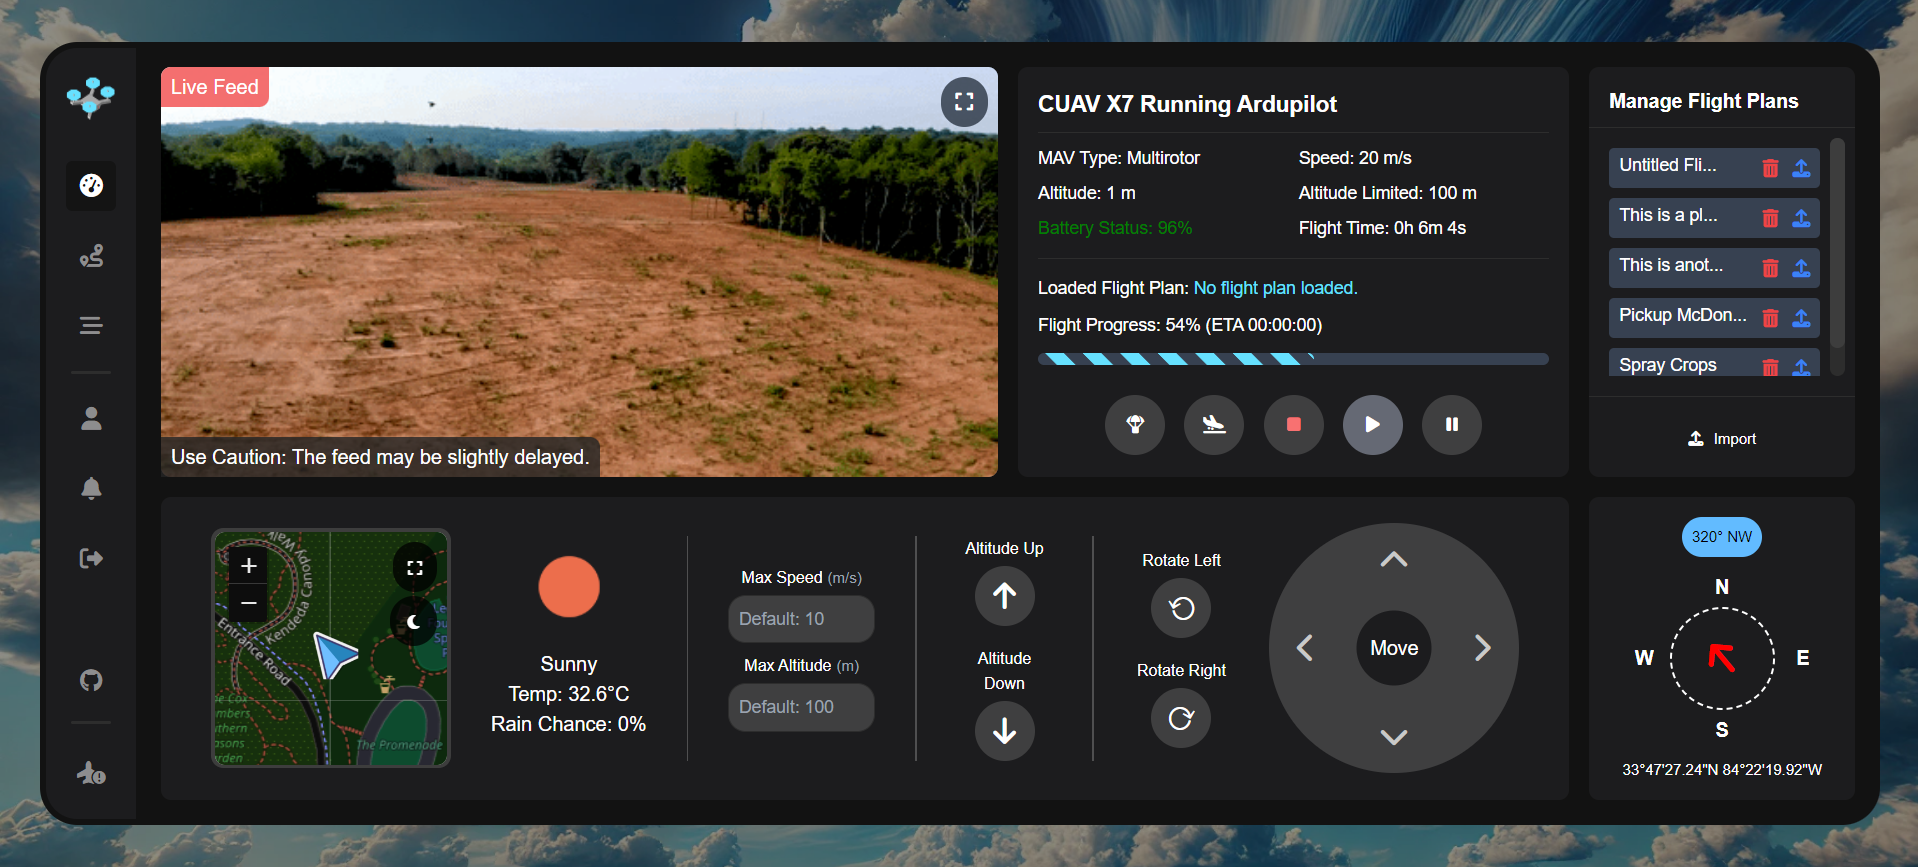
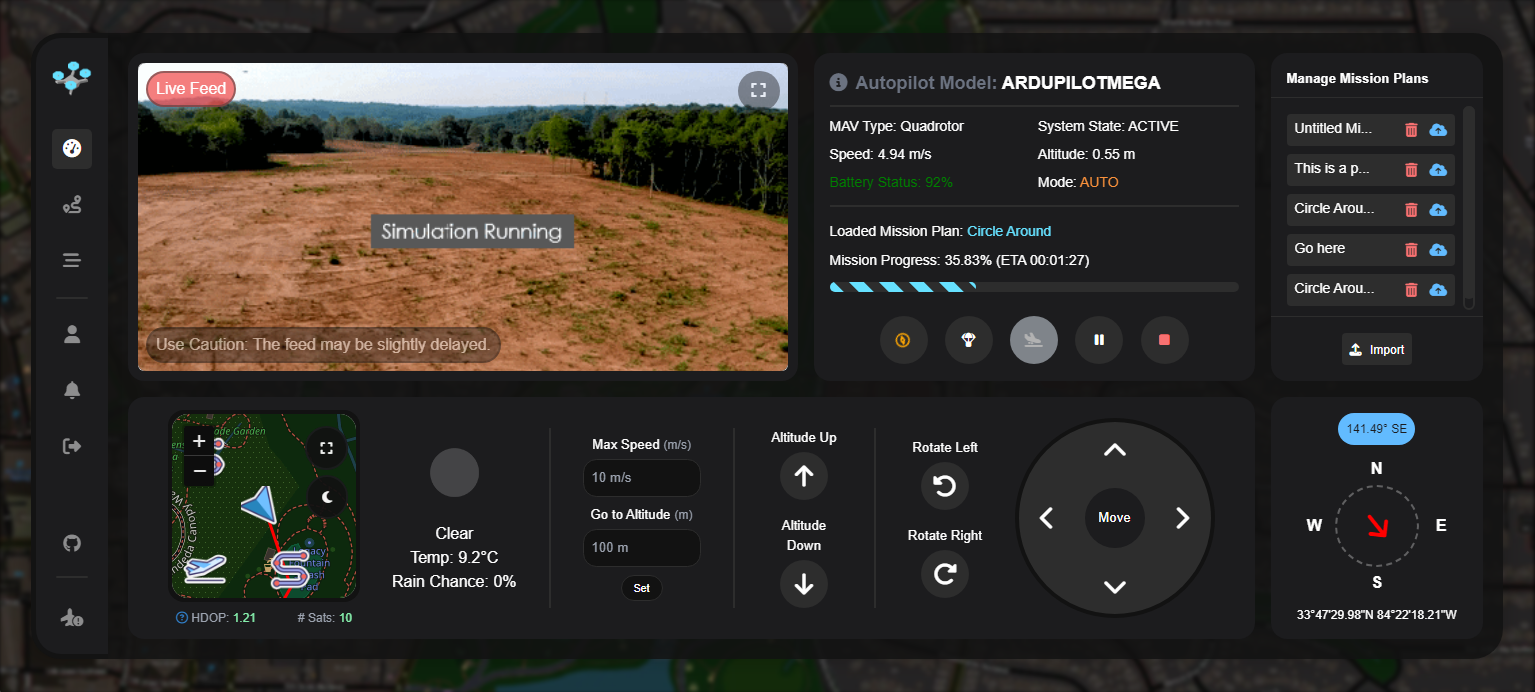
Production tweaks
- Updated workflow and README

diff --git a/src/frontend/src/components/LiveFeed.svelte b/src/frontend/src/components/LiveFeed.svelte
@@ -15,6 +15,7 @@
   $: tertiaryColor = $tertiaryColorStore;
   $: fontColor = darkMode ? '#ffffff' : '#000000';
 
+  let isProduction = false;
   let containerAspect = 16 / 9;
   let videoAspect = 16 / 9;
 
@@ -77,6 +78,15 @@
     fetchLiveFeed();
 
     window.addEventListener('resize', adjustVideoSize);
+
+    let response = fetch('/api/mavlink/heartbeat');
+    response.then((res) => {
+      if (res.status === 200) {
+        isProduction = res.headers.get('isProduction') === 'true';
+      }
+    });
+    let noSignal = document.getElementById('no-signal') as HTMLImageElement;
+    if (!isProduction) noSignal.src = 'simulation.gif';
   });
 </script>
 
@@ -84,7 +94,7 @@
   style="--primaryColor: {primaryColor}; --secondaryColor: {secondaryColor}; --fontColor: {fontColor};"
 >
   <div class="container w-full h-full relative">
-    <img id="no-signal" src={darkMode ? 'no-signal.gif': 'no-signal-light.gif'} alt="No Signal" class="absolute top-0 w-full h-full object-cover rounded-lg z-10" />
+    <img id="no-signal" src={darkMode && !isProduction ? 'no-signal.gif': 'no-signal-light.gif'} alt="No Signal" class="absolute top-0 w-full h-full object-cover rounded-lg z-10" />
     <iframe allowfullscreen id="live-feed" title="Live Feed" src={ typeof window !== 'undefined' ? `http://${window.location.hostname}:8889/cam`  : ''} class="bg-black absolute top-1/2 left-1/2 transform -translate-x-1/2 -translate-y-1/2 object-cover rounded-lg z-0"></iframe>
     <div class="tab absolute top-2 left-2 bg-[#f24e4eb9] text-[#ffffff] text-md px-2 py-1 rounded-full z-20">Live Feed</div>
     <div class="caution-text opacity-[50%] text-md absolute bottom-2 left-2 bg-[#252525cf] px-2 py-1 mr-[0.5em] rounded-full z-20">Use Caution: The feed may be slightly delayed.</div>

diff --git a/src/frontend/src/routes/api/mavlink/[type]/+server.ts b/src/frontend/src/routes/api/mavlink/[type]/+server.ts
@@ -26,7 +26,10 @@ export const POST: RequestHandler = async (request): Promise<Response> => {
                 if (logs.length > 0) {
                     const logsToSend = newLogs.slice();
                     newLogs.length = 0; // Clear newLogs
-                    return new Response(JSON.stringify(logsToSend), { status: 200, headers: { 'Content-Type': 'application/json' } });
+                    return new Response(JSON.stringify(logsToSend), { status: 200, headers: {
+                        'Content-Type': 'application/json',
+                        'isProduction': `${process.env.NODE_ENV === 'production'}`,
+                    }});
                 }
 
                 return new Response('No logs available', { status: 503 });

diff --git a/README.md b/README.md
@@ -6,8 +6,7 @@
 ![Docker Compose Version](https://img.shields.io/badge/Docker%20Compose-v2.27.1-blue?style=flat-square&logo=docker)
 ![PocketBase Version](https://img.shields.io/badge/PocketBase-v0.22.14-green?style=flat-square&logo=pocketbase)
 
-A web-based ground control station (GCS) for remote autopilot management via MAVLink.  
-*Tested on Raspberry Pi Zero with ArduPilot.*
+A web-based ground control station (GCS) for remote autopilot management via the [MAVLink protocol](https://en.wikipedia.org/wiki/MAVLink).
 
 <img src="screenshots/dashboard.png" alt="Illustration" width="auto"/>
 
@@ -15,88 +14,124 @@ A web-based ground control station (GCS) for remote autopilot management via MAV
 
 ---
 
-<table align="center">
-<tr>
-<td>
+## 🐚 Setup Script
 
-<table align="center">
+Be sure to install all the system dependencies before trying to run the docker container. This command will run the setup script located in the contrib folder.
 
-<th colspan="2" style="text-align: center;">🔧 Use Cases</th>
-<tr>
-<td>
-      
-📦 Package Delivery  
-🛠 Maintenance  
-🌐 Remote Management  
-🔋 Battery Monitoring  
-
-</td>
-<td>
-
-🌍 Route Planning  
-📉 Data Logging  
-🚁 Flight Control  
-📡 Communication  
-
-</td>
-</tr>
-</table>
-
-
-</td>
-<td>
-
-
-<table align="center">
-<th colspan="2" style="text-align: center;">📚 Useful Documentation</th>
-<tr>
-<td>
-
-
-- [Raspberry Pi Docs](https://www.raspberrypi.com/documentation)
-- [Docker Docs](https://docs.docker.com/)
-- [PocketBase Docs](https://pocketbase.io/docs/)
-- [SvelteKit Docs](https://kit.svelte.dev/)
-
-</td>
-<td>
-
-- [ArduPilot Docs](https://ardupilot.org/ardupilot/index.html)
-- [MAVLink Protocol](https://mavlink.io/en/)
-- [MAVLink Wiki](https://en.wikipedia.org/wiki/MAVLink)
-- [Flight Controller Setup](https://ardupilot.org/copter/docs/initial-setup.html)
-
-</td>
-</tr>
-</table>
-
-
-</td>
-</tr>
-
-</table>
-
----
-
-## 🛠 System Dependencies
-
-Ensure your system has the following dependencies installed:
-- Docker
-- Docker Compose
-
-<details>
-<summary>👈 View Installation Instructions</summary>
-<p>
-
-**Install Docker:**
 ```bash
-curl -fsSL https://get.docker.com -o get-docker.sh
-sudo sh get-docker.sh
+curl -s https://raw.githubusercontent.com/MAV-Manager/mmgcs_public/main/contrib/setup.sh | \
+    bash -s --
 ```
 
-**Install Docker Compose:**
+<details>
+<summary>👈 View Setup Script</summary>
+<p>
+
 ```bash
-sudo apt-get install -y docker-compose
+#!/bin/bash
+
+# Update system and install necessary packages
+sudo apt-get update
+sudo apt-get -y install docker.io nginx ufw wget
+
+# Enable and start the firewall
+echo "y" | sudo ufw enable
+sudo ufw allow 22
+sudo ufw allow 8090
+sudo ufw allow 8889
+sudo ufw allow 5173
+sudo ufw allow in on ppp0
+sudo ufw allow out on ppp0
+sudo iptables -t nat -F
+echo "y" | sudo ufw reload
+
+# Turn off NetworkManager to prevent conflicts with ppp0
+sudo systemctl stop NetworkManager
+sudo systemctl disable NetworkManager
+
+# Configure 4G modem
+sudo tee /etc/chatscripts/lte > /dev/null << EOF
+ABORT 'BUSY'
+ABORT 'NO CARRIER'
+ABORT 'ERROR'
+TIMEOUT 12
+"" 'AT'
+OK 'ATZ'
+OK 'AT+CGDCONT=1,"IP","simbase"'
+OK 'ATD*99#'
+CONNECT ''
+EOF
+
+sudo tee /etc/ppp/peers/lte > /dev/null << EOF
+/dev/ttyUSB2
+115200
+connect "/usr/sbin/chat -v -f /etc/chatscripts/lte"
+noauth
+defaultroute
+usepeerdns
+persist
+defaultroute
+replacedefaultroute
+EOF
+
+sudo pon lte
+sleep 5
+sudo ip route del default
+sudo ip route add default dev ppp0
+sudo ip link set dev ppp0 mtu 1400
+PUBLIC_IP=$(curl icanhazip.com)
+# Export the variable for Docker Compose
+echo "export PUBLIC_IP=$PUBLIC_IP" >> ~/.bashrc
+source ~/.bashrc
+
+sudo chown -R $(whoami):www-data /home/$(whoami)
+
+DOCKER_CONFIG=${DOCKER_CONFIG:-$HOME/.docker}
+# check if docker compose is installed
+
+if command -v docker &> /dev/null && docker compose version &> /dev/null; then
+    echo "docker compose command is available"
+else
+    echo "docker compose command is not available"
+    mkdir -p $DOCKER_CONFIG/cli-plugins
+    curl -SL https://github.com/docker/compose/releases/download/v2.3.3/docker-compose-linux-aarch64 -o $DOCKER_CONFIG/cli-plugins/docker-compose
+    chmod +x $DOCKER_CONFIG/cli-plugins/docker-compose
+fi
+
+# May need to logout and login to apply docker group changes
+if ! docker ps >/dev/null 2>&1; then
+    echo "Docker installed. Adding $(whoami) to the 'docker' group..."
+    sudo usermod -aG docker $(whoami)
+    echo -e "User added to 'docker' group but the session must be reloaded to access the Docker daemon. Please log out, log back in, and rerun the script. Exiting..."
+    exit 0
+fi
+
+sudo tee /etc/docker/daemon.json > /dev/null << EOF
+{
+  "iptables": true,
+  "default-address-pools": [
+    {"base":"172.18.0.0/16","size":24}
+  ],
+  "log-driver": "json-file",
+  "log-opts": {
+    "max-size": "10m",
+    "max-file": "3"
+  },
+  "dns": ["8.8.8.8", "8.8.4.4"],
+  "metrics-addr": "127.0.0.1:9323",
+  "experimental": false,
+  "live-restore": true
+}
+EOF
+
+sudo systemctl restart docker
+
+# Check and enable all uarts with dtoverlay=uartx
+for uart in 0 1 2 3; do
+    if ! grep -q "dtoverlay=uart${uart}" /boot/firmware/config.txt; then
+        echo "dtoverlay=uart${uart}" | sudo tee -a /boot/firmware/config.txt
+    fi
+done
 ```
 
 </p>
@@ -104,22 +139,17 @@ sudo apt-get install -y docker-compose
 
 ---
 
-## 🐳 Building the Docker Containers
+## 🐳 Installation
 ```bash
-git clone git@github.com:judahpaul16/mmgcs.git && cd mmgcs
-docker compose up
+cd ~
+rm -rf mmgcs
+git clone https://github.com/MAV-Manager/mmgcs_public.git mmgcs
+cd mmgcs
+docker stop mmgcs
+docker rm mmgcs
+docker rmi mmgcs
+docker compose -f docker-compose.prod.yml up -d
 ```
-*Run with `-d` to detach the container from the terminal session*
-
----
-
-## 🚀 Deploy
-```bash
-cd ~/ && sudo rm -rf mmgcs && git clone -c core.protectNTFS=false git@github.com:judahpaul16/mmgcs.git && cd mmgcs && docker compose -f docker-compose.prod.yml down && docker compose -f docker-compose.prod.yml up -d
-```
-
-## ✅ Compatibility
-...
 
 ---
 
